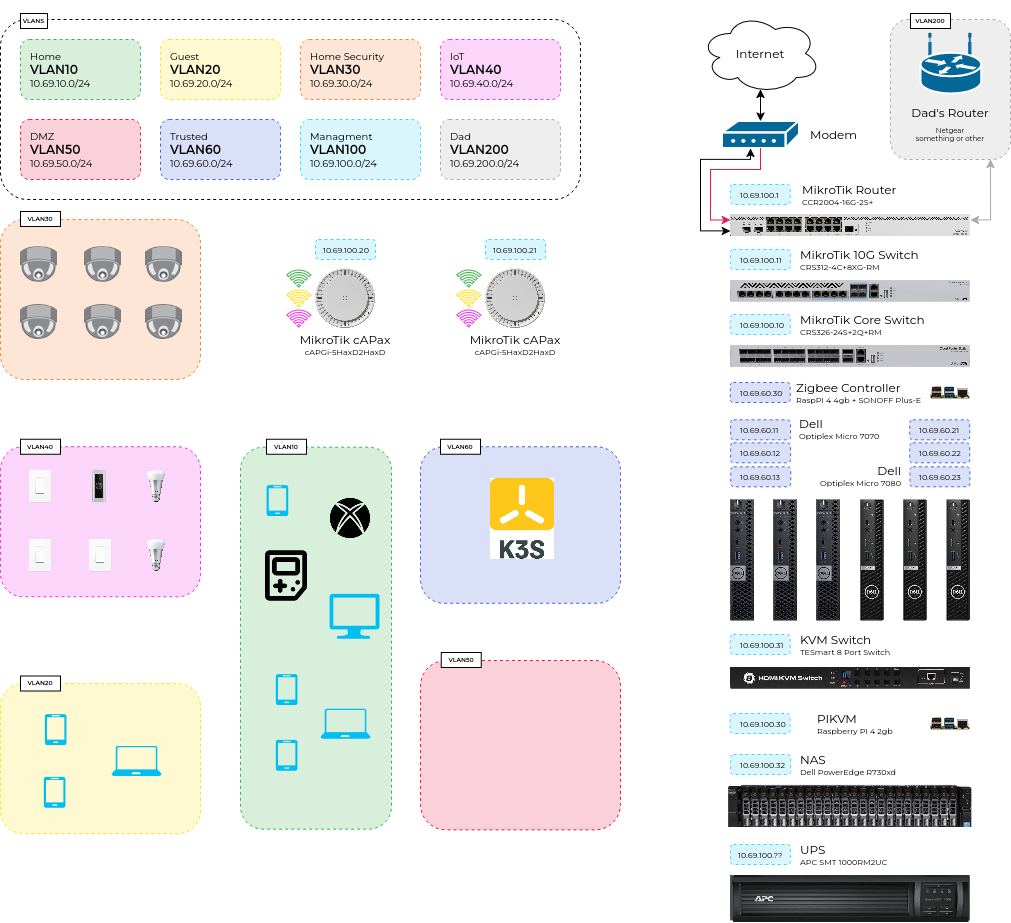
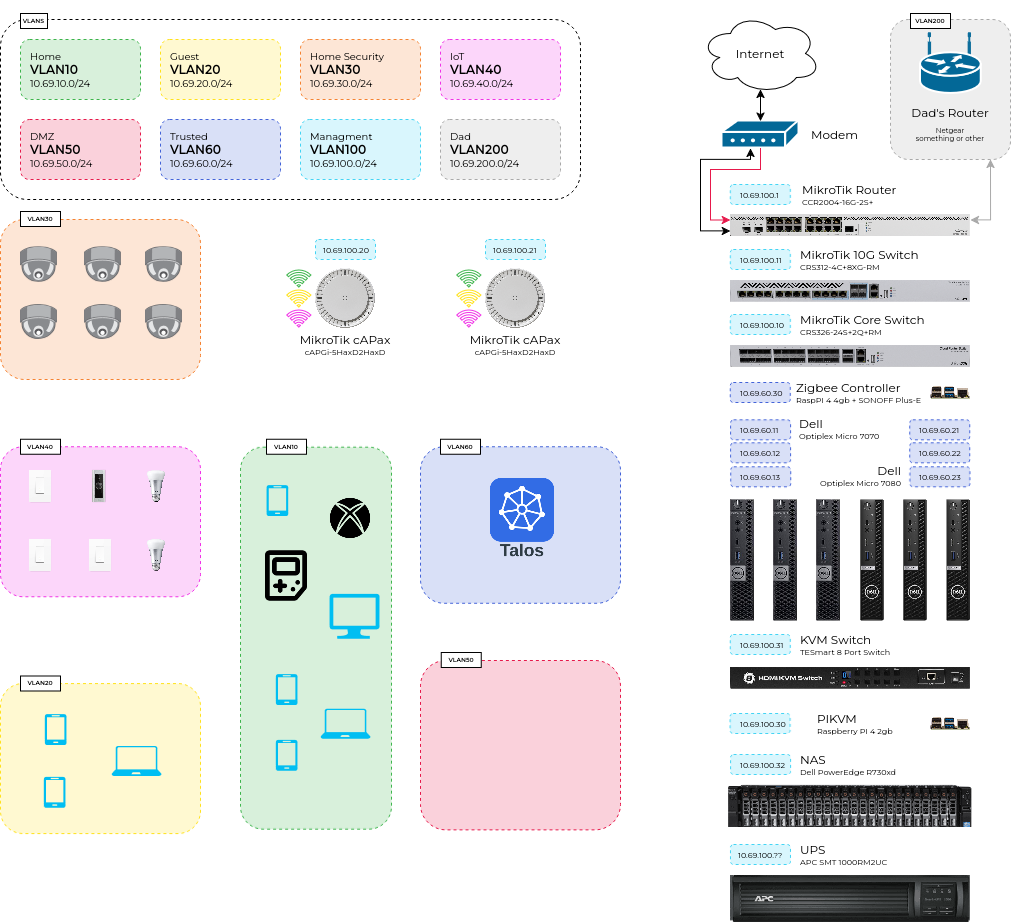
feat: updated documentation

Changed region(s): [[0.4599, 0.5157, 0.5519, 0.6067], [0.7052, 0.1213, 0.8279, 0.1517], [0.9199, 0.0607, 0.9812, 0.091]]

diff --git a/docs/src/architecture.md b/docs/src/architecture.md
@@ -1,0 +1,81 @@
+# Architecture
+
+The whole homelab is declarative. Three layers, each owned by a different tool, each
+committed to this repo:
+
+```
+        Terraform ──────────►  MikroTik network (VLANs, BGP, WiFi)
+            │
+            ▼
+        Talos Linux ────────►  6× bare-metal nodes (immutable OS + k8s)
+            │
+            ▼
+        Flux (GitOps) ──────►  in-cluster platform (Cilium, kube-vip, Rook-Ceph)
+```
+
+## 1. Network — Terraform
+
+The MikroTik router, switches, and access points are managed entirely by
+[Terraform](https://www.terraform.io/) via the RouterOS provider. VLANs, trunk/access
+ports, DHCP reservations, BGP peers, and WiFi are all code in [`terraform/`](https://github.com/Lil-Strudel/homelab/tree/main/terraform).
+State lives in an encrypted, versioned AWS S3 bucket with native locking.
+
+Because the provider needs LAN access and the SOPS Age key at apply time, applies run
+with **Terraform Cloud execution = Local**.
+
+See [Controlling MikroTik with Terraform](./notes/controlling-mikrotik-with-terraform.md)
+and the [Network plan](./notes/network-plan.md).
+
+## 2. Operating system — Talos Linux
+
+Every node runs [Talos](https://www.talos.dev/): a minimal, immutable, API-driven OS
+with no shell. Machine configs are generated from encrypted secrets and per-node
+patches in [`talos/`](https://github.com/Lil-Strudel/homelab/tree/main/talos), then
+applied over the network. Talos bootstraps Kubernetes directly — no `kubeadm`, no
+manual node prep.
+
+- **Control plane** — `makima-1..3`
+- **Workers** — `rem-1..3`
+- Secure Boot enabled; the installer image is pinned in `talos/patch.yaml`.
+- CNI and kube-proxy are disabled in Talos so Cilium can own both.
+
+See [Talos Cluster Setup](./notes/talos-setup.md).
+
+## 3. In-cluster platform — Flux GitOps
+
+After bootstrap, [Flux](https://fluxcd.io/) reconciles everything under
+[`kubernetes/main/`](https://github.com/Lil-Strudel/homelab/tree/main/kubernetes/main).
+Git is the source of truth; changes land by commit.
+
+| Component | Role |
+| --- | --- |
+| **Cilium** | CNI + kube-proxy replacement + ingress controller |
+| **kube-vip** | Control-plane VIP (`10.69.60.10`) and service load balancing |
+| **Rook-Ceph** | In-cluster distributed storage / PersistentVolumes |
+
+### Load balancing & the control-plane VIP
+
+kube-vip advertises the control-plane VIP and `LoadBalancer` service IPs over **BGP**.
+The cluster peers as **AS 65000** to the MikroTik router at **AS 65100**, so service
+IPs are routable across the LAN without ARP tricks. Address pool: `10.69.60.100–110`.
+
+See [MikroTik BGP Setup](./notes/mikrotik-setup-bgp.md).
+
+### Storage
+
+Two tiers:
+
+- **Rook-Ceph** — replicated block/file storage spread across the nodes, backing
+  cluster PersistentVolumes.
+- **Dell R730xd NAS** — separate bulk storage for media/backups, outside the cluster.
+
+## Secrets
+
+Secrets never hit git in plaintext. Everything sensitive is [SOPS](https://github.com/getsops/sops)-encrypted
+with [Age](https://github.com/FiloSottile/age), decrypted in place by Terraform, the
+Talos config scripts, and Flux. See [Secrets with SOPS + Age](./notes/secrets-with-sops.md).
+
+## Current scope
+
+Today the cluster runs the **platform only** — Cilium, kube-vip, Rook-Ceph, and Flux.
+User-facing workloads are not deployed yet.

diff --git a/docs/src/notes/systems-plan.md b/docs/src/notes/systems-plan.md
@@ -1,1 +1,71 @@
 # Systems
+
+The full hardware fleet — compute, network gear, storage, and out-of-band access.
+IPs and roles below match what Terraform actually provisions (DHCP reservations, BGP
+peers) in [`terraform/main.tf`](https://github.com/Lil-Strudel/homelab/blob/main/terraform/main.tf).
+
+## Compute — Kubernetes nodes
+
+Six Dell OptiPlex Micros on VLAN 60 (Trusted). The control plane shares a kube-vip
+VIP at `10.69.60.10`.
+
+| Host | Model | IP | Role |
+| --- | --- | --- | --- |
+| `makima-1` | OptiPlex Micro 7070 | `10.69.60.11` | Control plane |
+| `makima-2` | OptiPlex Micro 7070 | `10.69.60.12` | Control plane |
+| `makima-3` | OptiPlex Micro 7070 | `10.69.60.13` | Control plane |
+| `rem-1` | OptiPlex Micro 7080 | `10.69.60.21` | Worker |
+| `rem-2` | OptiPlex Micro 7080 | `10.69.60.22` | Worker |
+| `rem-3` | OptiPlex Micro 7080 | `10.69.60.23` | Worker |
+| — | (kube-vip VIP) | `10.69.60.10` | Control-plane endpoint |
+
+All nodes boot **Talos Linux** (secure boot) and install to a **Samsung SSD 870**
+(selected by disk model in `talos/patch.yaml`, so the OS never lands on the wrong disk).
+
+## Network
+
+| Device | Model | Mgmt IP | Role |
+| --- | --- | --- | --- |
+| Router | MikroTik CCR2004-16G-2S+ | `10.69.100.1` | WAN gateway, inter-VLAN routing, BGP (AS 65100) |
+| Core switch | MikroTik CRS326-24S+2Q+RM | `10.69.100.10` | SFP+ aggregation |
+| 10G switch | MikroTik CRS312-4C+8XG-RM | `10.69.100.11` | 10G copper distribution |
+| Access point 1 | MikroTik cAPax (cAPGi-5HaxD2HaxD) | `10.69.100.20` | CAPsMAN **manager** |
+| Access point 2 | MikroTik cAPax (cAPGi-5HaxD2HaxD) | `10.69.100.21` | CAPsMAN **client** |
+
+WiFi: a shared `Strudel` network (CAPsMAN-managed across both APs) plus a
+self-contained `SprinklerAct Studios` SSID pinned to the Dad VLAN on AP1.
+
+## Storage
+
+| Device | Model | IP | Role |
+| --- | --- | --- | --- |
+| NAS | Dell PowerEdge R730xd | `10.69.100.32` | Bulk storage (media, backups) |
+| Zigbee controller | Raspberry Pi 4 (4 GB) + SONOFF ZBDongle-E | `10.69.60.30` | Home-automation radio |
+
+In-cluster storage is handled separately by **Rook-Ceph** across the six nodes; the
+R730xd is bulk/NFS storage outside the cluster.
+
+## Out-of-band & power
+
+| Device | Model | IP | Role |
+| --- | --- | --- | --- |
+| PiKVM | Raspberry Pi 4 (2 GB) | `10.69.100.30` | IP-KVM |
+| KVM switch | TESmart 8-port | `10.69.100.13` | Physical KVM |
+| UPS | APC SMT1000RM2UC | `10.69.100.77` | Battery backup |
+
+## Upstream
+
+The homelab hangs off a MikroTik router behind the house modem. A separate Netgear
+router (VLAN 200, "Dad") is bridged in for a non-homelab network segment.
+
+## Why this hardware
+
+- **OptiPlex Micros** — cheap, quiet, low-power, plentiful on the used market, and
+  they take an M.2 + 2.5" SATA SSD. Six of them give a real 3+3 HA cluster in the
+  footprint of a couple of books.
+- **MikroTik everywhere** — full RouterOS API means the entire network is
+  Terraformable; SFP+/10G on the switches without enterprise pricing.
+- **R730xd** — lots of 3.5" bays for cheap bulk storage that doesn't belong on the
+  cluster's fast Ceph tier.
+- **PiKVM + TESmart + UPS** — headless recovery and clean shutdowns without walking
+  to the rack.

diff --git a/README.md b/README.md
@@ -1,1 +1,45 @@
-# This is a massive WIP
+# Strudel Homelab
+
+Infrastructure-as-code for my home Kubernetes cluster and the network it runs on —
+declarative from bare metal up. Talos Linux for the OS, Terraform for the MikroTik
+network, and Flux for everything inside the cluster.
+
+📖 **Docs:** the full write-up lives in the [Strudel Homelab book](https://lil-strudel.github.io/homelab/)
+(built from [`docs/`](./docs) with [mdBook](https://rust-lang.github.io/mdBook/)).
+
+## Stack
+
+| Layer | Tech |
+| --- | --- |
+| OS | [Talos Linux](https://www.talos.dev/) (secure-boot, immutable) |
+| Kubernetes | `kubeadm`-free, bootstrapped by Talos |
+| CNI | [Cilium](https://cilium.io/) (kube-proxy replacement, ingress) |
+| Load balancing | [kube-vip](https://kube-vip.io/) + BGP to MikroTik |
+| Storage | [Rook-Ceph](https://rook.io/) (in-cluster), Dell R730xd NAS (bulk) |
+| GitOps | [Flux](https://fluxcd.io/) |
+| Network IaC | [Terraform](https://www.terraform.io/) → [RouterOS](https://registry.terraform.io/providers/terraform-routeros/routeros/latest) |
+| Secrets | [SOPS](https://github.com/getsops/sops) + [Age](https://github.com/FiloSottile/age) |
+| TF state | AWS S3 (encrypted, versioned, native locking) |
+
+## Repo layout
+
+| Path | What |
+| --- | --- |
+| [`talos/`](./talos) | Talos machine configs, patches, and generation scripts |
+| [`kubernetes/main/`](./kubernetes/main) | Flux-managed cluster state (Cilium, kube-vip, Rook-Ceph) |
+| [`terraform/`](./terraform) | MikroTik network as code (router, switches, APs, VLANs) |
+| [`scripts/`](./scripts) | MikroTik bootstrap + Terraform import helpers |
+| [`docs/`](./docs) | This book's source |
+
+## Hardware at a glance
+
+- **Control plane** — 3× Dell OptiPlex Micro 7070 (`makima-1..3`)
+- **Workers** — 3× Dell OptiPlex Micro 7080 (`rem-1..3`)
+- **Network** — MikroTik CCR2004 router, CRS326 core + CRS312 10G switches, 2× cAPax APs
+- **Storage / OOB** — Dell PowerEdge R730xd NAS, PiKVM, TESmart KVM, APC UPS
+
+See [Systems](./docs/src/notes/systems-plan.md) and [Network](./docs/src/notes/network-plan.md)
+for the full breakdown.
+
+> ⚠ This repo is public. All secrets are SOPS-encrypted; the plaintext Age keys and
+> generated configs are gitignored. See [Secrets with SOPS + Age](./docs/src/notes/secrets-with-sops.md).

diff --git a/docs/src/notes/network-plan.md b/docs/src/notes/network-plan.md
@@ -1,3 +1,50 @@
 # Network
 
+The entire MikroTik network — router, switches, APs, VLANs, DHCP, BGP, and WiFi — is
+managed by Terraform. See [Controlling MikroTik with Terraform](./controlling-mikrotik-with-terraform.md).
+
 ![Network Plan](../assets/network-plan.png)
+
+## Addressing
+
+Everything lives under `10.69.0.0/16`. Each VLAN gets its own `/24`, numbered by VLAN
+ID: **`10.69.<vlan>.0/24`**, with the router as `.1`.
+
+| VLAN | Name | Subnet | Purpose |
+| --- | --- | --- | --- |
+| 10 | Home | `10.69.10.0/24` | Personal devices |
+| 20 | Guest | `10.69.20.0/24` | Isolated guest access |
+| 30 | Security | `10.69.30.0/24` | Cameras / surveillance |
+| 40 | IoT | `10.69.40.0/24` | Smart-home / untrusted IoT |
+| 50 | DMZ | `10.69.50.0/24` | Externally exposed services |
+| 60 | Trusted | `10.69.60.0/24` | Kubernetes nodes + trusted hosts |
+| 100 | Management | `10.69.100.0/24` | Network gear, OOB (KVM, UPS) |
+| 200 | Dad | `10.69.200.0/24` | Separate household segment |
+
+## Switching
+
+Router `ether2–4` are trunk ports carrying all VLANs down to the switches. The
+**core switch** (CRS326) aggregates SFP+ links; the **10G switch** (CRS312)
+distributes 10G copper. Each switch has its own management IP on VLAN 100 and tags
+node/uplink ports appropriately (Trusted for nodes, Management for gear).
+
+## WiFi
+
+Two cAPax APs run under **CAPsMAN**, with AP1 as manager and AP2 as client, so the
+`Strudel` SSID roams seamlessly across both. A second SSID, `SprinklerAct Studios`,
+is a self-contained config on AP1 pinned to the Dad VLAN (200).
+
+## BGP — where the cluster meets the network
+
+The Kubernetes control-plane nodes peer with the router over BGP so that kube-vip can
+advertise service and control-plane IPs directly into the routing table (no ARP/L2
+tricks).
+
+- **Router** — AS **65100**, peering to each control-plane node.
+- **Cluster (kube-vip)** — AS **65000**, router ID per node.
+- **Peers** — `makima-1` (`.11`), `makima-2` (`.12`), `makima-3` (`.13`).
+- **LoadBalancer pool** — `10.69.60.100–110`.
+
+Setup notes: [MikroTik BGP Setup](./mikrotik-setup-bgp.md).
+
+> The diagram source is editable — [`network-plan.drawio`](../assets/network-plan.drawio).

diff --git a/docs/src/notes/mikrotik-setup-bgp.md b/docs/src/notes/mikrotik-setup-bgp.md
@@ -1,1 +1,16 @@
-Literally just add BGP connections with AS 65100, remote address as the ip of the node, and local role ebgp
+# MikroTik BGP Setup
+
+kube-vip advertises the control-plane VIP and `LoadBalancer` service IPs to the router
+over BGP. The router side is intentionally simple.
+
+On the MikroTik router, add a BGP connection **per control-plane node**:
+
+- **Remote AS:** `65100` (the router's own AS; the cluster is `65000`)
+- **Remote address:** the node's IP — `10.69.60.11`, `.12`, `.13`
+- **Local role:** `ebgp`
+
+That's it — once the nodes are up, routes for the VIP (`10.69.60.10`) and the service
+pool (`10.69.60.100–110`) appear automatically.
+
+> These BGP peers are also declared in Terraform (`bgp_peers` in `terraform/main.tf`),
+> so they're recreated on a fresh apply.

diff --git a/docs/src/SUMMARY.md b/docs/src/SUMMARY.md
@@ -5,12 +5,21 @@
 ---
 
 - [Introduction](introduction.md)
+- [Architecture](architecture.md)
 
 # Plans
 
-- [Network](./notes/network-plan.md)
 - [Systems](./notes/systems-plan.md)
+- [Network](./notes/network-plan.md)
 
 # Guides
 
+- [Talos Cluster Setup](./notes/talos-setup.md)
 - [Secrets with SOPS + Age](./notes/secrets-with-sops.md)
+- [Controlling MikroTik with Terraform](./notes/controlling-mikrotik-with-terraform.md)
+- [MikroTik BGP Setup](./notes/mikrotik-setup-bgp.md)
+
+# Archive
+
+- [Debian + kubeadm Node Setup](./notes/archive/kube-node-setup.md)
+- [kube-vip Manifest](./notes/archive/creating-kube-vip-manifest.md)

diff --git a/docs/src/notes/archive/kube-node-setup.md b/docs/src/notes/archive/kube-node-setup.md
@@ -1,4 +1,10 @@
-# I am just jogging down some notes of what I have done
+# Debian + kubeadm Node Setup (archived)
+
+> ⚠ **Superseded.** The cluster now runs [Talos Linux](../talos-setup.md), which
+> replaces this entire manual Debian + `kubeadm` bring-up. Kept as a historical record
+> of the pre-Talos setup.
+
+Original notes of what I did:
 
 - Wifi needs to be enabled in Dell BIOS
 - Fresh install of Debian Bookworm. NO SWAP! No additional packages. Not even standard system utilities.

diff --git a/docs/src/introduction.md b/docs/src/introduction.md
@@ -1,11 +1,10 @@
 # Introduction
 
-```
-These docs contain information that relates to my setup
-```
+Welcome. These docs cover my homelab end to end — the network, the bare-metal
+Kubernetes cluster, and how it's all kept declarative in one repo. Start with
+[Architecture](./architecture.md) for the big picture, or jump to the
+[Systems](./notes/systems-plan.md) and [Network](./notes/network-plan.md) plans.
 
 ---
-
-<br />
 
 {{#include ../../README.md}}

diff --git a/docs/src/notes/archive/creating-kube-vip-manifest.md b/docs/src/notes/archive/creating-kube-vip-manifest.md
@@ -1,3 +1,9 @@
+# Creating a kube-vip Manifest (archived)
+
+> ⚠ **Superseded.** This was for the old Debian + `kubeadm` cluster. kube-vip is now
+> deployed by Flux from [`kubernetes/main/kube-system/kube-vip/`](https://github.com/Lil-Strudel/homelab/tree/main/kubernetes/main/kube-system/kube-vip).
+> Kept for reference only.
+
 ```
 sudo -s
 

diff --git a/docs/src/notes/talos-setup.md b/docs/src/notes/talos-setup.md
@@ -1,4 +1,7 @@
+# Talos Cluster Setup
+
 Its quite easy :)
+
 Get the latest secure boot iso from [talos factory](https://factory.talos.dev/?arch=amd64&board=undefined&cmdline-set=true&extensions=-&platform=metal&secureboot=true&target=metal)
 
 you may need to setup a temporary redirect in mikrotik for a distnat pointing 10.69.60.10 to 10.69.60.11
